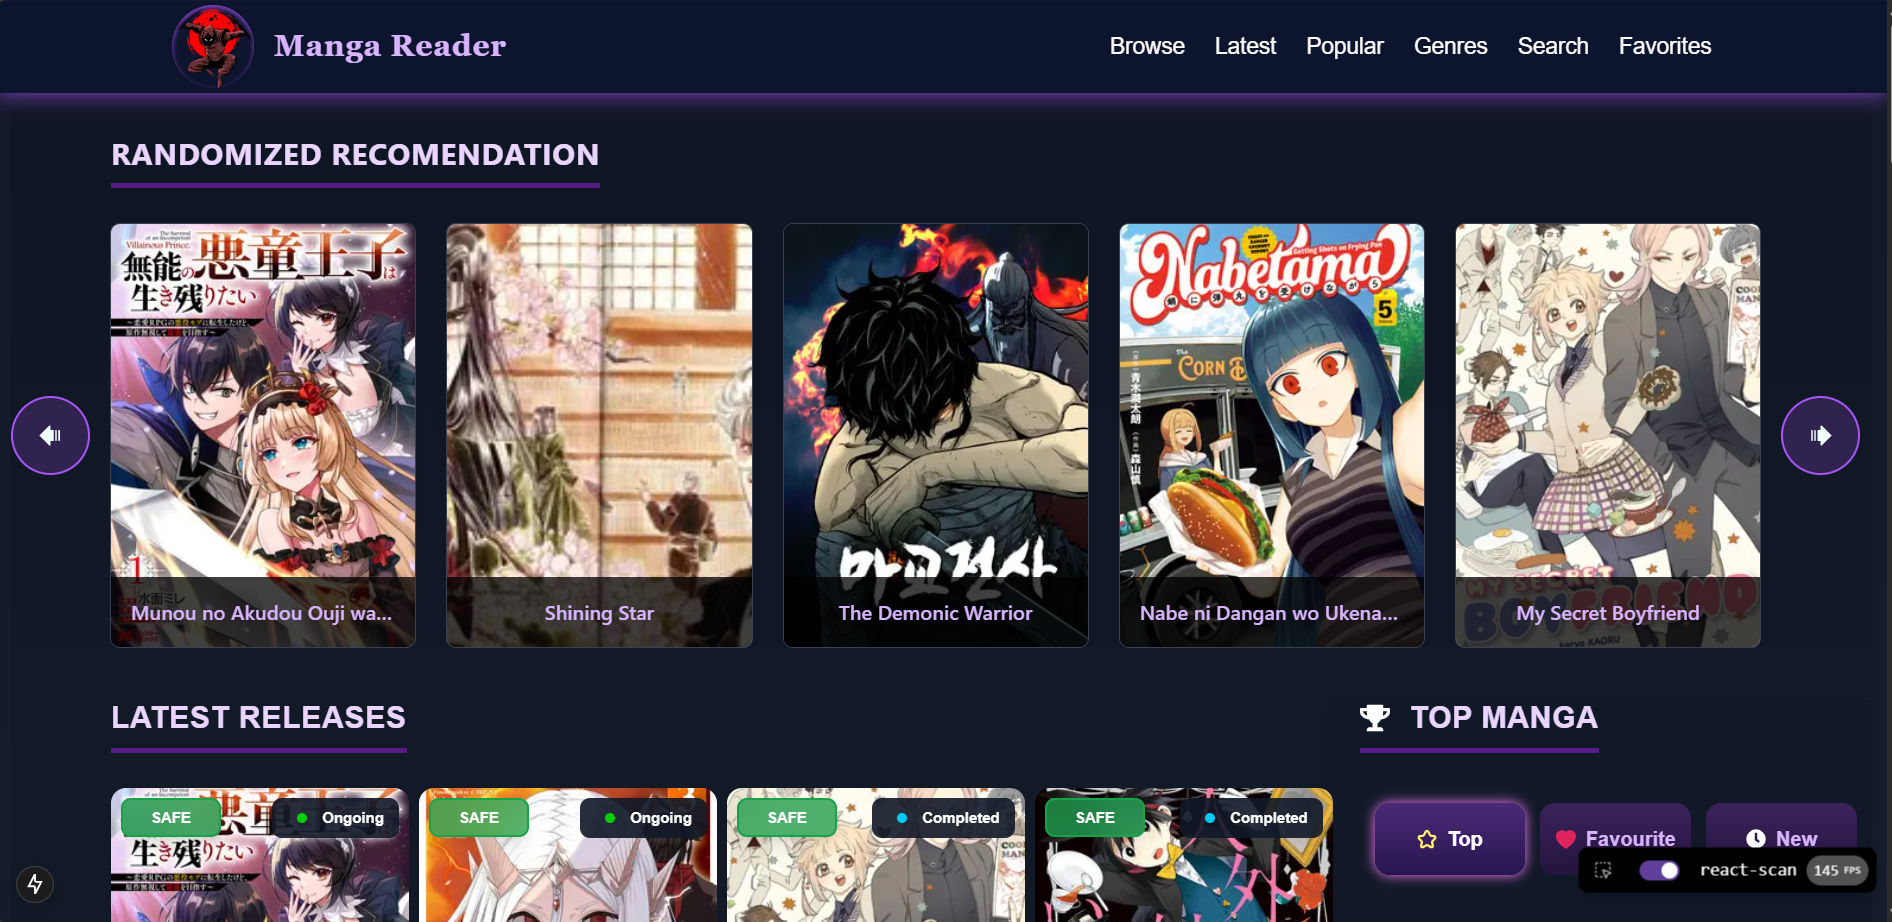
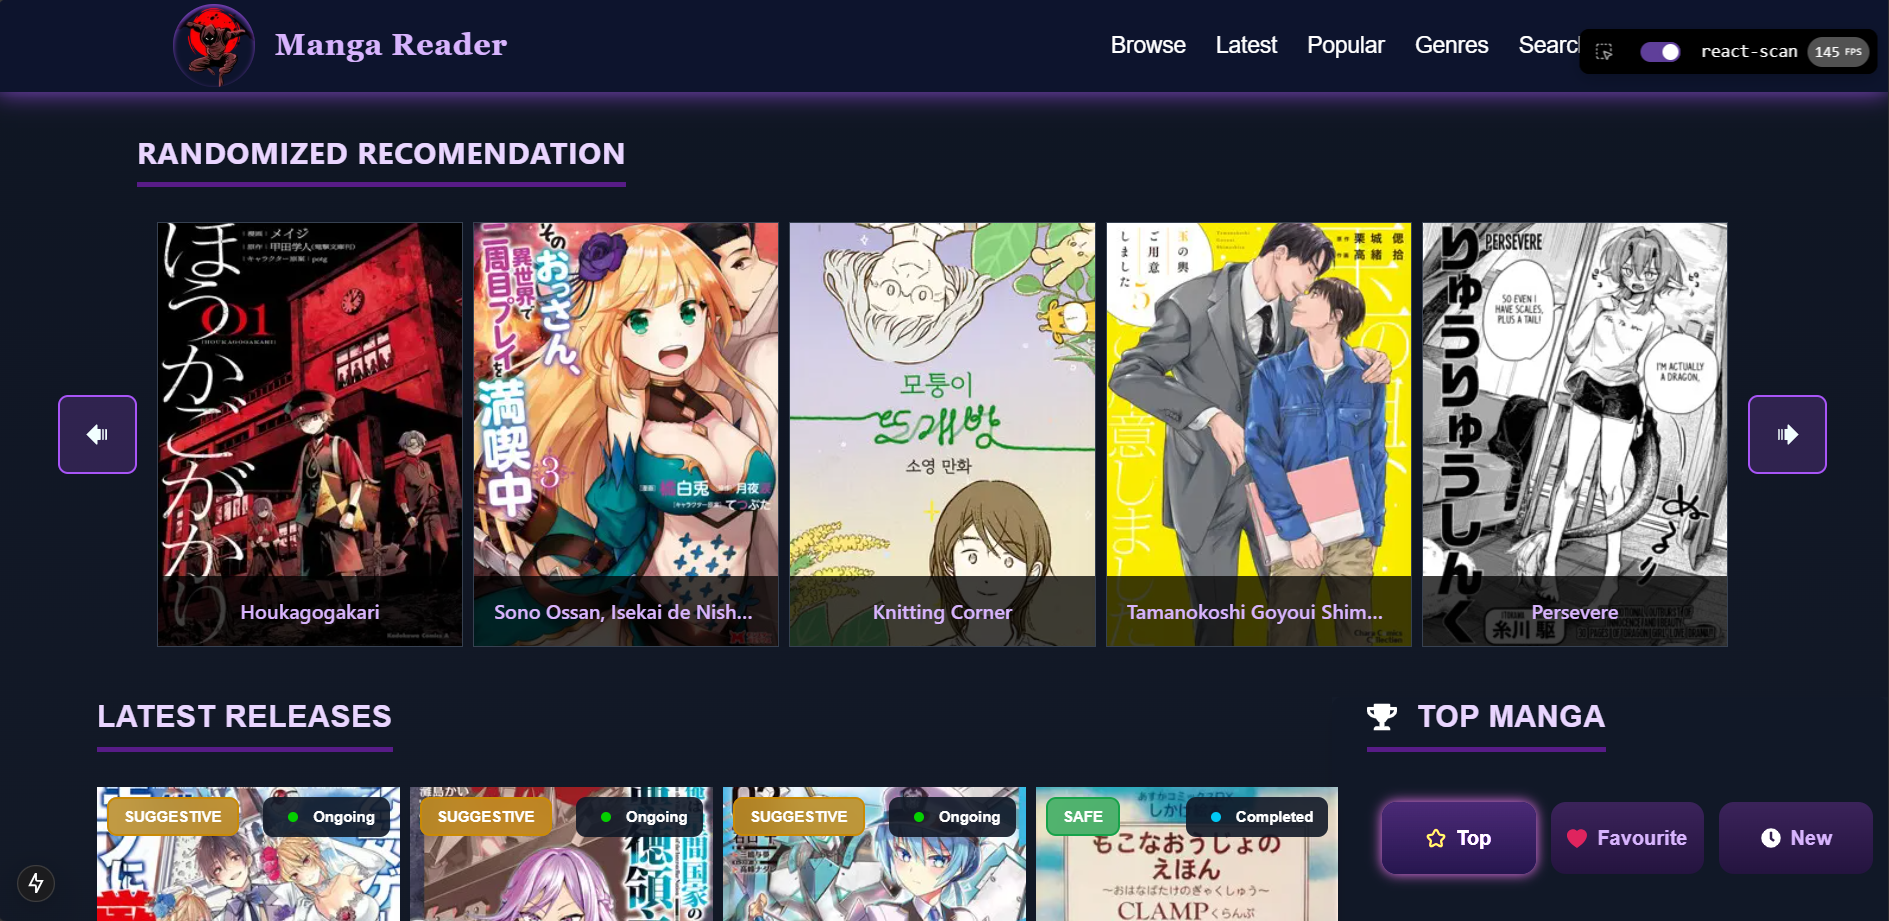
UI fix and fixed the inconsistencies like removed the rounded from the things for the look

diff --git a/app/Components/MangaListComponents/MangaCard.jsx b/app/Components/MangaListComponents/MangaCard.jsx
@@ -3,133 +3,89 @@ import Image from "next/image";
 import Flag from "react-world-flags";
 import { motion } from "framer-motion";
 
-const stagger = 0.25;
-
+const stagger = 0.2;
 const variants = {
-  hidden: { opacity: 0, scale: 0.95 },
-  visible: { opacity: 1, scale: 1 },
+    hidden: { opacity: 0, scale: 0.95 },
+    visible: { opacity: 1, scale: 1 },
 };
 
-const MangaCard = ({ processedLatestMangas, handleMangaClicked }) => {
-    const getRatingColor = (rating) => {
-        switch (rating) {
-            case "safe":
-                return "bg-green-600 border-green-600";
-            case "suggestive":
-                return "bg-yellow-600 border-yellow-600";
-            case "erotica":
-                return "bg-red-600 border-red-600";
-            default:
-                return "bg-gray-600 border-gray-600";
-        }
-    };
-    const langToCountryMap = {
-        ja: "JP",
-        ms: "MY",
-        ko: "KR",
-        en: "US",
-        zh: "CN",
-    };
+const ratingColors = {
+    safe: "bg-green-600 border-green-600",
+    suggestive: "bg-yellow-600 border-yellow-600",
+    erotica: "bg-red-600 border-red-600",
+    default: "bg-gray-600 border-gray-600",
+};
 
-    return (
-        <div className=" flex w-full flex-col bg-black/10">
-        <div className="ml-20 pb-7 text-2xl font-bold text-purple-200 tracking-wide uppercase ">
-                <h1 className=" border-b-4 border-purple-900 w-fit pb-2">LATEST RELEASES</h1>
-            </div>
-            <div className="grid w-[93%] ml-20 grid-cols-1 sm:grid-cols-2 lg:grid-cols-3 xl:grid-cols-4 gap-2">
-                {processedLatestMangas.map((manga, index) => (
-                    <motion.div
-                        key={manga.id}
-                        onClick={() => { handleMangaClicked(manga) }}
-                        className="group cursor-pointer"
-                        variants={variants}
-                        initial="hidden"
-                        animate="visible"
-                        transition={{ delay: index * stagger, ease: "easeInOut", duration: 0.5 }}
-                    >
-                        <div className="bg-gray-800 overflow-hidden rounded-xl shadow-lg transform transition-all duration-300 hover:scale-[102%] hover:shadow-xl min-h-[440px]">
-                            <span
-                                className={`px-3 min-w-20 text-center border-2 absolute bg-opacity-70 backdrop-blur-lg top-2 left-2 z-10 py-1.5 text-xs shadow-lg font-semibold rounded-lg text-white ${getRatingColor(
-                                    manga.contentRating
-                                )}`}
-                            >
-                                {manga.contentRating.toUpperCase()}
-                            </span>
+const langToCountry = { ja: "JP", ms: "MY", ko: "KR", en: "US", zh: "CN" };
 
-                            <span className="flex absolute top-2 right-2 font-bold z-10 text-xs justify-center items-center flex-row bg-gray-900 bg-opacity-90 py-1 px-3 rounded-lg">
-                                <svg xmlns="http://www.w3.org/2000/svg" width="24" height="24" viewBox="0 0 6.35 6.35" className="icon mr-1">
-                                    <path fill={manga.status === "completed" ? "#00c9f5" : manga.status === "ongoing" ? "#04d000" : "#da7500"} d="M4.233 3.175a1.06 1.06 0 0 1-1.058 1.058 1.06 1.06 0 0 1-1.058-1.058 1.06 1.06 0 0 1 1.058-1.058 1.06 1.06 0 0 1 1.058 1.058"></path>
-                                </svg>
-                                <span>{manga.status.charAt(0).toUpperCase() + manga.status.slice(1).toLowerCase()}</span>
-                            </span>
-
-                            <div className="relative h-80">
-                                <Image
-                                    src={manga.coverImageUrl || '/placeholder.jpg'}
-                                    alt={manga.title}
-                                    fill
-                                    className="object-cover transition-transform duration-500 "
-                                    placeholder="blur"
-                                    blurDataURL="/placeholder.jpg"
-                                />
-                                <div className="absolute inset-x-0 bottom-0 bg-gradient-to-t from-black via-gray-900 to-transparent pt-8">
-                                    <div className="flex w-full flex-col items-center justify-between p-4 pb-2">
-                                        <h3 className="text-sm font-bold text-white mb-4 flex justify-center items-start">
-                                            <Flag
-                                                code={langToCountryMap[manga.originalLanguage] || "UN"}
-                                                className="w-6 shadow-lg shadow-black mt-0.5 mr-2"
-                                                alt="flag"
-                                            />
-                                            {manga.title.length > 40 ? `${manga.title.slice(0, 40)}...` : manga.title}
-                                        </h3>
-
-                                        <div className="flex flex-row w-full items-center justify-between px-2">
-                                            <div className="flex items-center gap-2 text-sm text-gray-300">
-                                                <img src="/star.svg" alt="Rating" className="w-4 h-4" />
-                                                <span>{manga?.rating?.rating?.average || "N/A"}</span>
-                                            </div>
-                                            <div className="flex items-center gap-2 text-sm text-gray-300">
-                                                <img src="/comment.svg" alt="Comments" className="w-4 h-4" />
-                                                <span>{manga?.rating?.comments?.repliesCount || 0}</span>
-                                            </div>
-                                            <div className="flex items-center gap-2 text-sm text-gray-300">
-                                                <img src="/heart.svg" alt="Likes" className="w-4 h-4" />
-                                                <span>{manga?.rating?.follows || 0}</span>
-                                            </div>
+const MangaCard = ({ processedLatestMangas, handleMangaClicked }) => (
+    <div className="w-full flex flex-col bg-black/10">
+        <div className="mx-20 pb-7 text-2xl font-bold text-purple-200 tracking-wide uppercase ">
+            <h1 className=" border-b-4 border-purple-900 w-fit pb-2">      Latest Releases
+            </h1>
+        </div>
+        <div className="grid w-[93%] ml-20 grid-cols-1 sm:grid-cols-2 lg:grid-cols-3 xl:grid-cols-4 gap-2">
+            {processedLatestMangas.map((manga, index) => (
+                <motion.div
+                    key={manga.id}
+                    onClick={() => handleMangaClicked(manga)}
+                    className="group cursor-pointer"
+                    variants={variants}
+                    initial="hidden"
+                    animate="visible"
+                    transition={{ delay: index * stagger, ease: "easeInOut", duration: 0.5 }}
+                >
+                    <div className="bg-gray-800 shadow-lg transform transition-all duration-300 hover:scale-[102%] hover:shadow-xl min-h-[440px] overflow-hidden relative">
+                        <span className={`px-3 text-center border-2 absolute top-1 left-1 z-10 py-[6px] min-w-24 text-xs font-semibold  text-white bg-opacity-70 backdrop-blur-lg ${ratingColors[manga.contentRating] || ratingColors.default}`}>
+                            {manga.contentRating.toUpperCase()}
+                        </span>
+                        <span className="absolute top-1 right-1 z-10 text-xs bg-gray-900 bg-opacity-90 py-1 px-3  flex items-center font-bold">
+                            <svg width="24" height="24" viewBox="0 0 6.35 6.35" className="mr-1" fill={manga.status === "completed" ? "#00c9f5" : manga.status === "ongoing" ? "#04d000" : "#da7500"}>
+                                <circle cx="3.175" cy="3.175" r="1.058" />
+                            </svg>
+                            {manga.status.charAt(0).toUpperCase() + manga.status.slice(1).toLowerCase()}
+                        </span>
+                        <div className="relative h-80">
+                            <Image src={manga.coverImageUrl || '/placeholder.jpg'} alt={manga.title} fill className="object-cover transition-transform duration-500" placeholder="blur" blurDataURL="/placeholder.jpg" />
+                            <div className="absolute inset-x-0 bottom-0 bg-gradient-to-t from-black via-gray-900 to-transparent p-4">
+                                <h3 className="text-sm font-bold text-white flex items-start">
+                                    <Flag code={langToCountry[manga.originalLanguage] || "UN"} className="w-6 shadow-lg shadow-black mt-0.5 mr-2" />
+                                    {manga.title.length > 40 ? `${manga.title.slice(0, 40)}...` : manga.title}
+                                </h3>
+                                <div className="flex justify-between mt-2 text-gray-300 text-sm">
+                                    {["star", "comment", "heart"].map((icon, i) => (
+                                        <div key={i} className="flex items-center gap-2">
+                                            <img src={`/${icon}.svg`} alt={icon} className="w-4 h-4" />
+                                            <span>{
+                                                icon === "comment" ? (manga?.rating?.comments?.repliesCount > 1000 ? manga?.rating?.comments?.repliesCount.toString()[0] + "K" : manga?.rating?.comments?.repliesCount || 0) :
+                                                    icon === "heart" ? (manga?.rating?.follows > 1000 ? manga?.rating?.follows?.toString()[0] + "K" : manga?.rating?.follows || 0) :
+                                                        manga?.rating?.rating?.average?.toFixed(2) || "N/A"
+                                            }</span>
                                         </div>
-                                    </div>
+                                    ))}
                                 </div>
-                            </div>
-
-                            <div className="p-4 bg-gray-800">
-                                <div className="space-y-3">
-                                    <div className="flex flex-wrap items-center gap-2">
-                                        {manga.flatTags.slice(0, 4).map((tag) => (
-                                            <span
-                                                key={tag}
-                                                className="bg-gray-900 min-w-16 text-center text-nowrap shadow-lg shadow-black/20 px-3 py-1.5 rounded-lg border border-gray-700 text-sm transition-colors hover:bg-gray-800"
-                                            >
-                                                {tag}
-                                            </span>
-                                        ))}
-                                    </div>
-                                </div>
-
-                                <p className="text-xs text-gray-400 mt-4 text-center">
-                                    Last updated: {(() => {
-                                        const timeDifference = Math.floor((new Date() - new Date(manga.updatedAt)) / 60000);
-                                        const hours = Math.floor(timeDifference / 60);
-                                        const minutes = timeDifference % 60;
-                                        return `${hours > 0 ? `${hours} hour${hours > 1 ? "s" : ""}` : ""} ${minutes > 0 ? `${minutes} min${minutes > 1 ? "s" : ""}` : ""} ago`;
-                                    })()}
-                                </p>
                             </div>
                         </div>
-                    </motion.div>
-                ))}
-            </div>
+                        <div className="p-3 bg-gray-800">
+                            <div className="flex flex-wrap gap-1">
+                                {manga.flatTags.slice(0, 4).map(tag => (
+                                    <span key={tag} className="bg-gray-900 min-w-16 text-center shadow-lg px-3 py-1.5  border border-gray-700 text-sm transition-colors hover:bg-gray-800">
+                                        {tag}
+                                    </span>
+                                ))}
+                            </div>
+                            <p className="text-xs w-full  absolute flex justify-center items-center text-center bottom-1  text-gray-400 mt-4 ">
+                                Last updated: {(() => {
+                                    const minutes = Math.floor((new Date() - new Date(manga.updatedAt)) / 60000);
+                                    return `${Math.floor(minutes / 60)}h ${minutes % 60}m ago`;
+                                })()}
+                            </p>
+                        </div>
+                    </div>
+                </motion.div>
+            ))}
         </div>
-    );
-};
+    </div>
+);
 
 export default MangaCard;

diff --git a/app/Components/MangaListComponents/SliderComponent.jsx b/app/Components/MangaListComponents/SliderComponent.jsx
@@ -28,19 +28,19 @@ const SliderComponent = ({ processedRandomMangas }) => {
 
     return (
         <div className="w-full overflow-hidden text-white font-sans bg-black/10 pb-10 pt-7">
-            <div className="mx-20 pb-7 text-2xl font-bold text-purple-200 tracking-wide uppercase ">
+            <div className="mx-28 pb-7 text-2xl font-bold text-purple-200 tracking-wide uppercase ">
                 <h1 className=" border-b-4 border-purple-900 w-fit pb-2">Randomized Recomendation</h1>
             </div>
 
-            <section className="carousel flex justify-start w-full items-center relative gap-4">
-                <button onClick={handlePrev} className="border-2 border-purple-500 bg-opacity-20 hover:bg-opacity-30 bg-purple-500 p-5 rounded-full hover:bg-purple-600 transition">
+            <section className="carousel flex justify-center w-full items-center relative gap-4">
+                <button onClick={handlePrev} className="border-2 border-purple-500 bg-opacity-20 hover:bg-opacity-30 bg-purple-500 p-5 rounded-lg hover:bg-purple-600 transition">
                     <Image className=" brightness-200" src="/previous.svg" alt="prev" width={20} height={20} />
                 </button>
-                <div className="list flex gap-6 items-center overflow-hidden">
+                <div className="list flex gap-2 items-center overflow-hidden">
                     {visibleMangas.map((manga, index) => (
                         <div
                             key={index}
-                            className="relative w-[245px] h-[340px] flex-shrink-0 rounded-lg overflow-hidden shadow-xl bg-gray-900 hover:scale-105 transition border border-gray-700"
+                            className="relative w-[245px] h-[340px] flex-shrink-0  overflow-hidden shadow-xl bg-gray-900 hover:scale-105 transition border border-gray-700"
                             onMouseEnter={() => setHoveredIndex(index)}
                             onMouseLeave={() => setHoveredIndex(null)}
                         >
@@ -53,14 +53,14 @@ const SliderComponent = ({ processedRandomMangas }) => {
 
                             {/* Description on Hover */}
                             {hoveredIndex === index && (
-                                <div className="absolute inset-0 flex flex-col justify-start p-4 bg-black bg-opacity-80 text-white transition-opacity duration-300">
+                                <div className="absolute inset-0 flex flex-col justify-start p-4 bg-black bg-opacity-80 text-purple-300 transition-opacity duration-300">
                                     <p className="text-[12px] tracking-tight line-clamp-[15] ">{manga.description || "No description available."}</p>
                                 </div>
                             )}
                         </div>
                     ))}
                 </div>
-                <button onClick={handlePrev} className="border-2 border-purple-500 bg-opacity-20 hover:bg-opacity-30 bg-purple-500 p-5 rounded-full hover:bg-purple-600 transition">
+                <button onClick={handleNext} className="border-2 border-purple-500 bg-opacity-20 hover:bg-opacity-30 bg-purple-500 p-5 rounded-lg hover:bg-purple-600 transition">
                     <Image className=" brightness-200" src="/next.svg" alt="next" width={20} height={20} />
                 </button>
             </section>

diff --git a/app/manga-list/page.jsx b/app/manga-list/page.jsx
@@ -238,7 +238,7 @@ export default function MangaList() {
   }
 
   return (
-    <div className="min-h-screen w-full bg-gradient-to-b from-gray-900 via-gray-800 pt-1 px-3 to-gray-900 text-white">
+    <div className="min-h-screen w-full bg-gradient-to-b from-gray-900 via-gray-800 pt-1 to-gray-900 text-white">
       {isLoadingState ? (
         <div className="flex justify-center items-center w-full h-screen">
           <div className="text-center">
